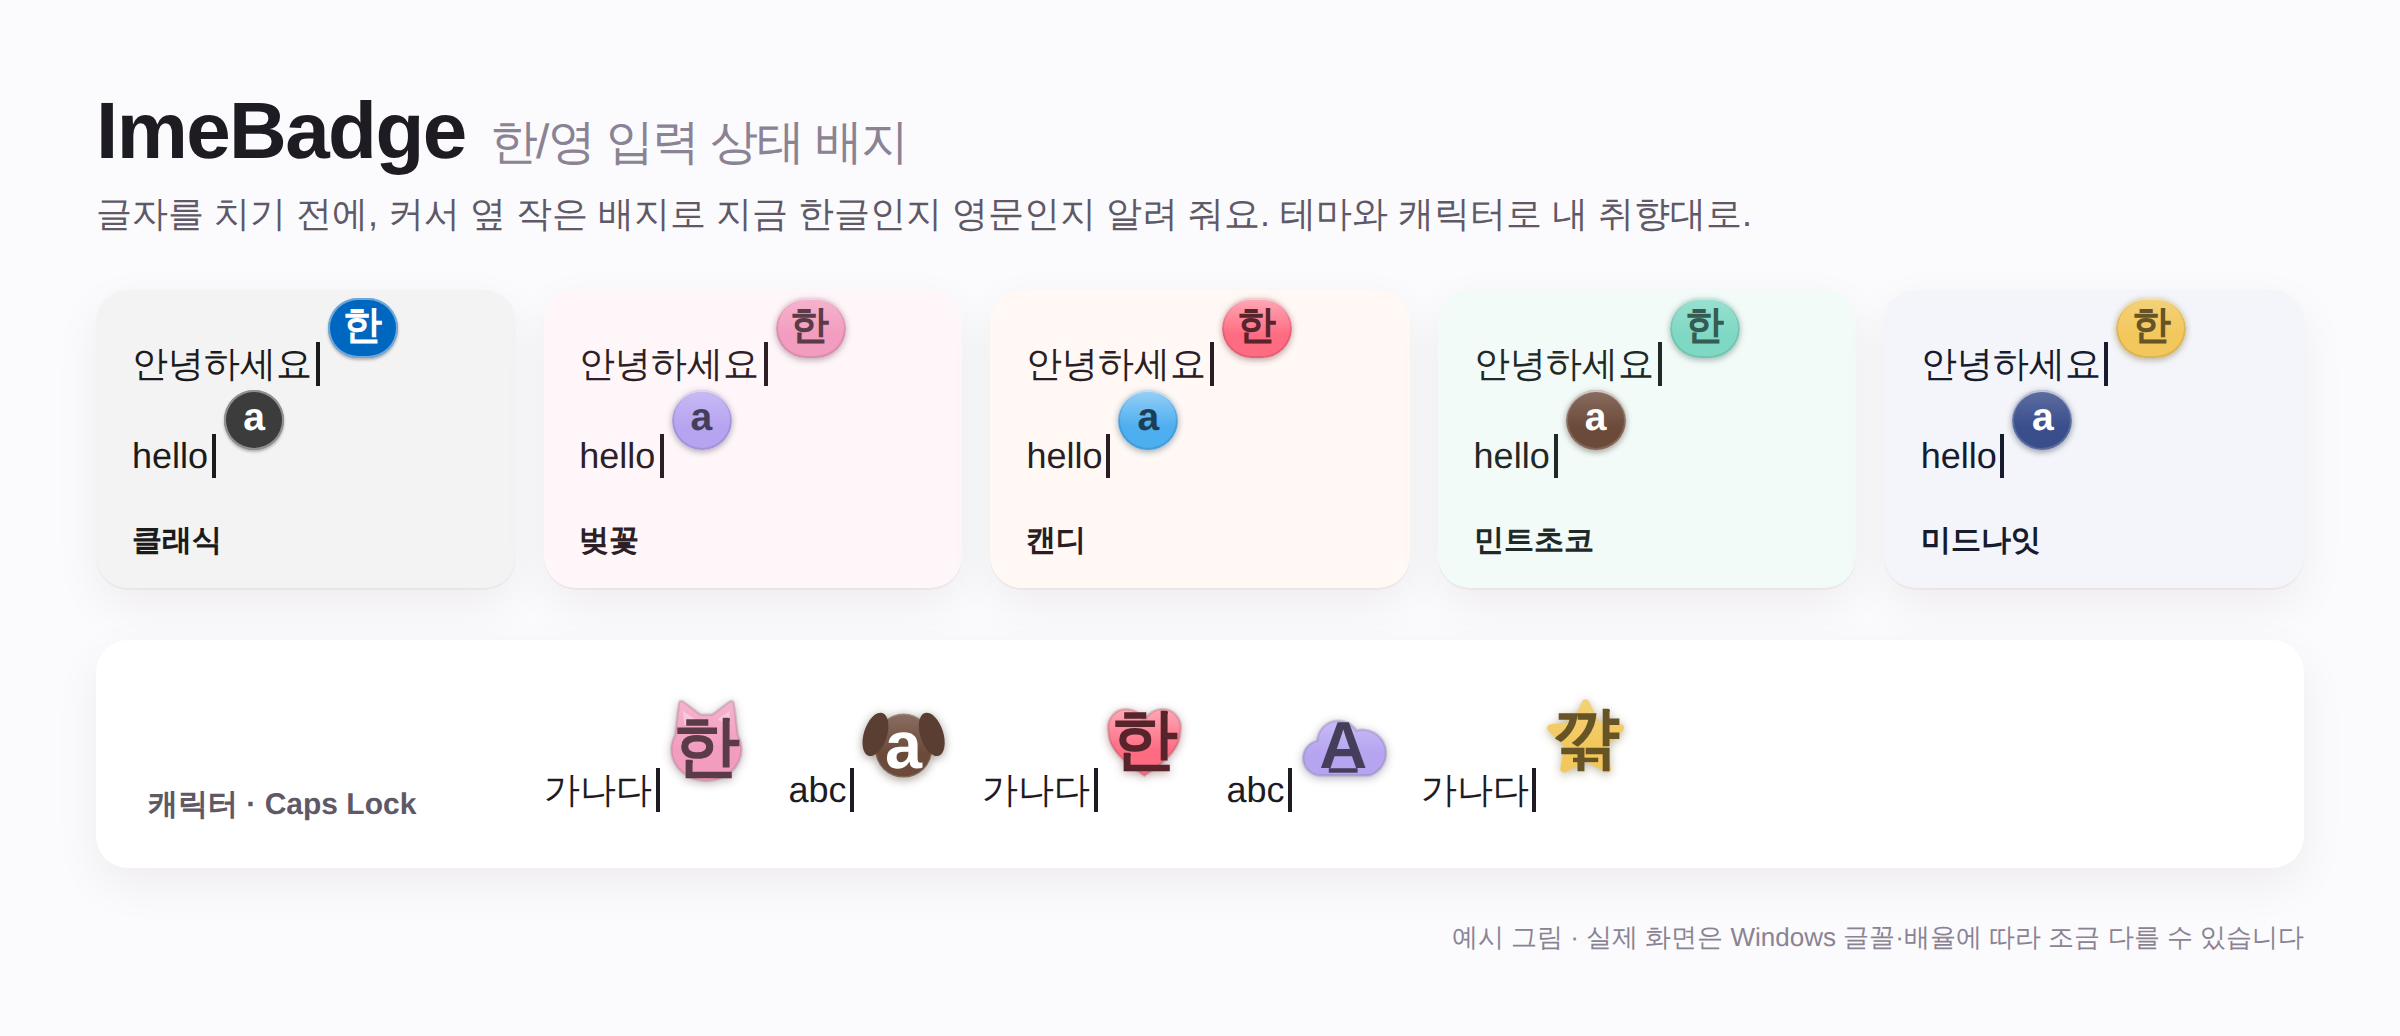
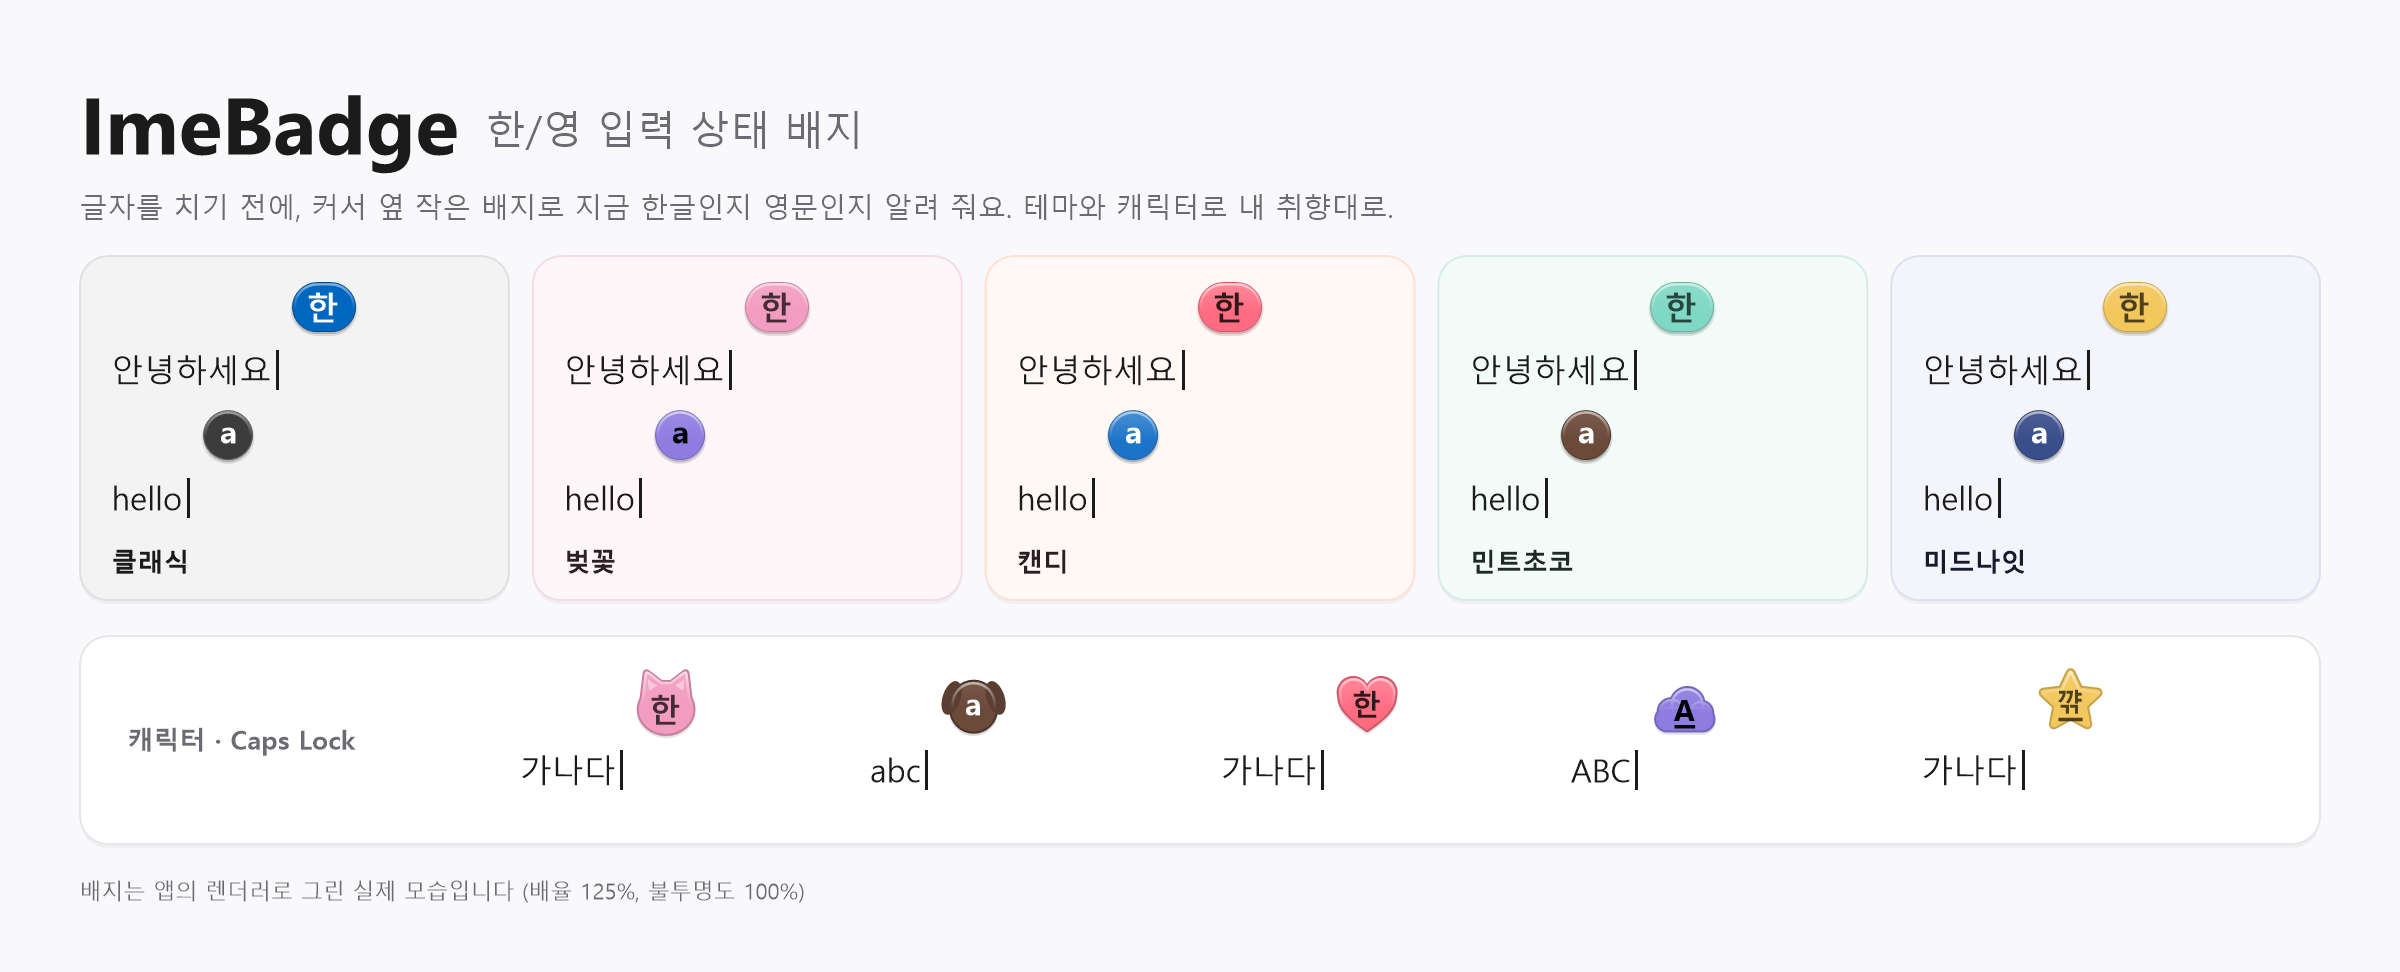
docs: README 소개 그림을 실제 렌더러로 갱신 (--render-hero) (#50) (#69)
배지는 BadgeRenderer, 자리는 BadgeLayout 으로 그려 앱과 같은 모습. CI 가 롤링 사전 릴리스에 hero.png 로 붙인다. docs/images/hero.png 교체, README 문구·다시 만드는 방법 갱신.

diff --git a/src/ImeBadge/Render/RenderHero.cs b/src/ImeBadge/Render/RenderHero.cs
@@ -1,0 +1,176 @@
+using System;
+using System.Drawing;
+using System.Drawing.Drawing2D;
+using System.Drawing.Imaging;
+using System.Drawing.Text;
+using System.IO;
+
+namespace ImeBadge;
+
+/// <summary>
+/// README 맨 위 소개 그림(docs/images/hero.png). <c>ImeBadge.exe --render-hero [경로]</c> 로 실행하면 창·트레이 없이 그림만 저장하고 끝낸다.
+/// 배지는 앱과 같은 <see cref="BadgeRenderer"/> 로 그리고 자리도 <see cref="BadgeLayout"/> 가 정하므로, 배지 모습이 바뀌어도
+/// 다시 실행하기만 하면 그림이 따라온다. CI 의 Windows 러너가 롤링 사전 릴리스에 <c>hero.png</c> 로 붙인다(build.yml).
+/// 레이아웃은 논리 px(가로 1200)로 적고 <see cref="K"/> 배로 그린다(GitHub 고해상도 화면에서도 또렷하게).
+/// </summary>
+static class RenderHero
+{
+    public const string Switch = "--render-hero";
+
+    /// <summary>그림 배율. 배지도 이 배율 × <see cref="BadgeScale"/> 로 그린다.</summary>
+    const float K = 2f, BadgeScale = 1.25f;
+
+    const float Width = 1200, Margin = 40, CardGap = 12;
+
+    static readonly Color Page = Color.FromArgb(0xF9, 0xF9, 0xFB), Ink = Color.FromArgb(0x1B, 0x1B, 0x1B),
+        Subtle = Color.FromArgb(0x6B, 0x6B, 0x73), CaretInk = Color.FromArgb(0x1B, 0x1B, 0x1B);
+
+    /// <summary><see cref="Switch"/> 가 있으면 그림을 저장하고 true. 실패하면 로그를 남기고 종료 코드 1.</summary>
+    public static bool TryRun(string[] args)
+    {
+        int i = Array.FindIndex(args, a => string.Equals(a, Switch, StringComparison.OrdinalIgnoreCase));
+        if (i < 0) return false;
+        string path = i + 1 < args.Length && !args[i + 1].StartsWith("--", StringComparison.Ordinal) ? args[i + 1] : "hero.png";
+        try
+        {
+            path = Path.GetFullPath(path);
+            using var hero = Draw();
+            hero.Save(path, ImageFormat.Png);
+            Log.Write($"render-hero: {path} ({hero.Width}x{hero.Height})");
+        }
+        catch (Exception ex)
+        {
+            Log.Error("render-hero failed", ex);
+            Environment.ExitCode = 1;
+        }
+        return true;
+    }
+
+    static readonly (string Id, string Name)[] Themes =
+    {
+        (DesignThemes.ClassicId, "클래식"), ("blossom", "벚꽃"), ("candy", "캔디"), ("mint", "민트초코"), ("midnight", "미드나잇"),
+    };
+
+    /// <summary>아래 줄의 캐릭터 배지: 앞 글, 테마, 캐릭터, 상태, Caps Lock.</summary>
+    static readonly (string Before, string Theme, string Character, ImeState State, bool Caps)[] Characters =
+    {
+        ("가나다", "blossom", BadgeCharacters.Cat, ImeState.Hangul, false),
+        ("abc", "mint", BadgeCharacters.Dog, ImeState.English, false),
+        ("가나다", "candy", BadgeCharacters.Heart, ImeState.Hangul, false),
+        ("ABC", "blossom", BadgeCharacters.Cloud, ImeState.English, true),
+        ("가나다", "midnight", BadgeCharacters.Star, ImeState.Hangul, true),
+    };
+
+    static Bitmap Draw()
+    {
+        const float Height = 486;
+        var bmp = new Bitmap((int)(Width * K), (int)(Height * K), PixelFormat.Format32bppArgb);
+        using var g = Graphics.FromImage(bmp);
+        g.SmoothingMode = SmoothingMode.AntiAlias;
+        g.PixelOffsetMode = PixelOffsetMode.HighQuality;
+        g.TextRenderingHint = TextRenderingHint.AntiAlias;
+        g.Clear(Page);
+        var area = new Rectangle(0, 0, bmp.Width, bmp.Height);
+
+        string latin = BadgeFonts.IsInstalled(BadgeFonts.Latin) ? BadgeFonts.Latin : BadgeRenderer.FontFamily;
+        using var title = Px(latin, 40, FontStyle.Bold);
+        using var subtitle = Px(BadgeRenderer.FontFamily, 20, FontStyle.Regular);
+        using var tagline = Px(BadgeRenderer.FontFamily, 14, FontStyle.Regular);
+        using var body = Px(BadgeRenderer.FontFamily, 16, FontStyle.Regular);
+        using var label = Px(BadgeRenderer.FontFamily, 13, FontStyle.Bold);
+        using var note = Px(BadgeRenderer.FontFamily, 11, FontStyle.Regular);
+
+        // 제목
+        float y = 34;
+        Text(g, "ImeBadge", title, Ink, Margin, y);
+        float titleW = Measure(g, "ImeBadge", title).Width;
+        Text(g, "한/영 입력 상태 배지", subtitle, Subtle, Margin + titleW + 14, y + 17);
+        Text(g, "글자를 치기 전에, 커서 옆 작은 배지로 지금 한글인지 영문인지 알려 줘요. 테마와 캐릭터로 내 취향대로.", tagline, Subtle, Margin, y + 60);
+
+        // 테마 카드 다섯 장: 한글 줄과 영문 줄, 배지는 caret 위-오른쪽(기본 위치). 줄 간격은 영문 배지가 윗줄 글을 가리지 않을 만큼.
+        float cardY = 128, cardH = 172, cardW = (Width - 2 * Margin - 4 * CardGap) / 5;
+        for (int t = 0; t < Themes.Length; t++)
+        {
+            var design = DesignThemes.Get(Themes[t].Id);
+            var theme = BadgeTheme.Of(design);
+            float x = Margin + t * (cardW + CardGap);
+            Card(g, new RectangleF(x, cardY, cardW, cardH), Color.FromArgb(design.Light.Window), Color.FromArgb(design.Light.Border));
+            Line(g, "안녕하세요", body, x + 16, cardY + 46, ImeState.Hangul, theme, false, area);
+            Line(g, "hello", body, x + 16, cardY + 110, ImeState.English, theme, false, area);
+            Text(g, Themes[t].Name, label, Color.FromArgb(design.Light.Text), x + 16, cardY + cardH - 28);
+        }
+
+        // 캐릭터 · Caps Lock 줄
+        float rowY = cardY + cardH + 18, rowH = 104;
+        Card(g, new RectangleF(Margin, rowY, Width - 2 * Margin, rowH), Color.White, Color.FromArgb(0xE6, 0xE6, 0xEA));
+        Text(g, "캐릭터 · Caps Lock", label, Subtle, Margin + 24, rowY + rowH / 2 - 9);
+        float cx = Margin + 220, step = (Width - 2 * Margin - 220 - 24) / Characters.Length;
+        foreach (var (before, themeId, character, state, caps) in Characters)
+        {
+            var theme = BadgeTheme.Of(DesignThemes.Get(themeId)) with { Character = character };
+            Line(g, before, body, cx, rowY + rowH / 2 + 4, state, theme, caps, area);
+            cx += step;
+        }
+
+        Text(g, "배지는 앱의 렌더러로 그린 실제 모습입니다 (배율 125%, 불투명도 100%)", note, Subtle, Margin, rowY + rowH + 16);
+        return bmp;
+    }
+
+    /// <summary>글 한 줄 + caret + 그 caret 에 붙은 배지. <paramref name="baselineTop"/> 은 글 윗줄(논리 px).</summary>
+    static void Line(Graphics g, string text, Font font, float x, float baselineTop, ImeState state, BadgeTheme theme, bool caps, Rectangle area)
+    {
+        Text(g, text, font, Ink, x, baselineTop);
+        float w = Measure(g, text, font).Width;
+        var caret = new Rectangle((int)Math.Round((x + w + 2) * K), (int)Math.Round((baselineTop + 1) * K), (int)Math.Round(1.5f * K), (int)Math.Round(20 * K));
+        using (var brush = new SolidBrush(CaretInk)) g.FillRectangle(brush, caret);
+        float scale = K * BadgeScale;
+        using var badge = BadgeRenderer.Render(state, BadgeStyle.Pill, scale, theme, 100, capsLock: caps);
+        var pos = BadgeLayout.Compute(new LayoutInput(caret, badge.Size, BadgeStyle.Pill, BadgePlacement.AboveRight, scale, area));
+        g.DrawImage(badge, new Rectangle(pos, badge.Size));
+    }
+
+    static void Card(Graphics g, RectangleF r, Color fill, Color border)
+    {
+        var d = new RectangleF(r.X * K, r.Y * K, r.Width * K, r.Height * K);
+        using var path = Round(d, 14 * K);
+        using (var shadow = new SolidBrush(Color.FromArgb(10, 0, 0, 0)))
+        using (var m = new Matrix())
+        using (var s = (GraphicsPath)path.Clone())
+        {
+            m.Translate(0, 2 * K);
+            s.Transform(m);
+            g.FillPath(shadow, s);
+        }
+        using (var brush = new SolidBrush(fill)) g.FillPath(brush, path);
+        using var pen = new Pen(border, K);
+        g.DrawPath(pen, path);
+    }
+
+    static GraphicsPath Round(RectangleF r, float radius)
+    {
+        var path = new GraphicsPath();
+        float d = radius * 2;
+        path.AddArc(r.Left, r.Top, d, d, 180, 90);
+        path.AddArc(r.Right - d, r.Top, d, d, 270, 90);
+        path.AddArc(r.Right - d, r.Bottom - d, d, d, 0, 90);
+        path.AddArc(r.Left, r.Bottom - d, d, d, 90, 90);
+        path.CloseFigure();
+        return path;
+    }
+
+    /// <summary>논리 px 크기의 글꼴(그릴 때는 <see cref="K"/> 배).</summary>
+    static Font Px(string family, float size, FontStyle style) => new(family, size * K, style, GraphicsUnit.Pixel);
+
+    /// <summary>글자 크기(논리 px). 여백 없는 형식으로 잰다.</summary>
+    static SizeF Measure(Graphics g, string text, Font font)
+    {
+        var s = g.MeasureString(text, font, PointF.Empty, StringFormat.GenericTypographic);
+        return new SizeF(s.Width / K, s.Height / K);
+    }
+
+    static void Text(Graphics g, string text, Font font, Color color, float x, float y)
+    {
+        using var brush = new SolidBrush(color);
+        g.DrawString(text, font, brush, x * K, y * K, StringFormat.GenericTypographic);
+    }
+}

diff --git a/src/ImeBadge/Program.cs b/src/ImeBadge/Program.cs
@@ -31,6 +31,11 @@ static class Program
             Log.Write("=== exit (render-sheet) ===");
             return;
         }
+        if (RenderHero.TryRun(args))
+        {
+            Log.Write("=== exit (render-hero) ===");
+            return;
+        }
 
         // 이미 떠 있으면 그쪽에 설정 창을 열라고 알리고 끝낸다.
         using var single = new SingleInstance();

diff --git a/CHANGELOG.md b/CHANGELOG.md
@@ -4,6 +4,10 @@
 
 ## [Unreleased]
 
+### 문서
+- README 소개 그림(`docs/images/hero.png`)을 지금 배지 모습(같은 색조 테두리·림·글자 정렬·새 영문색·가독성 개선)으로 바꿨다([#50](https://github.com/kimch0627/windows-ime-badge/issues/50)).
+  예시 그림 대신 앱의 렌더러로 그린 실제 모습이다. 개발용 `ImeBadge.exe --render-hero <경로>` 가 그리고, CI 가 롤링 사전 릴리스에 `hero.png` 로 붙인다.
+
 ## [1.7.1] - 2026-09-28
 
 파스텔 테마(벚꽃·캔디·민트초코·미드나잇)의 배지 글자를 더 또렷하게 하고, 불투명도를 낮췄을 때 어두운 화면에서 글자가 묻히던 문제를 고친 릴리스입니다.
